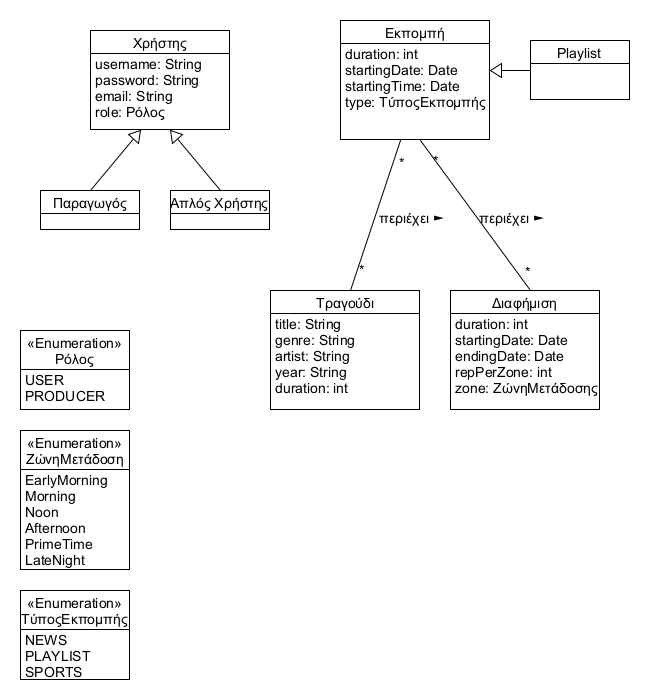
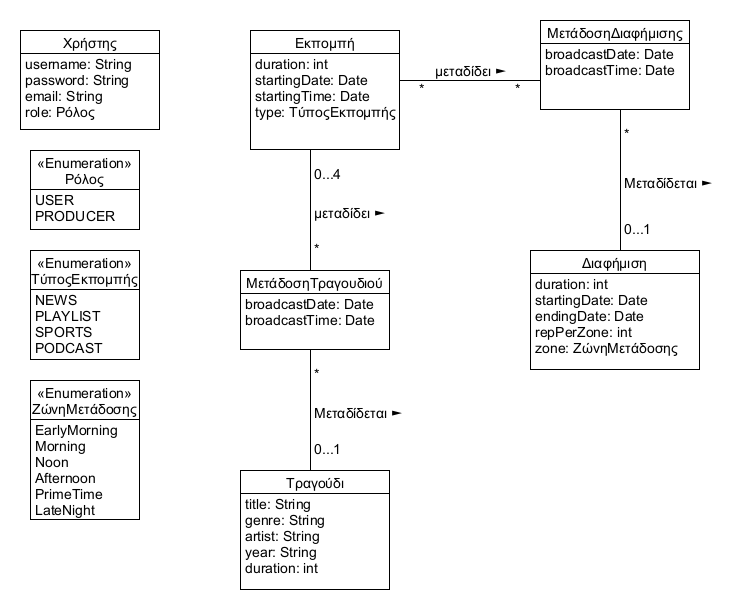
updates for domain model

diff --git a/docs/markdown/leitourgies.md b/docs/markdown/leitourgies.md
@@ -1,6 +1,7 @@
 # Λειτουργικότητα Λογισμικού
 
 ## Περιεχόμενα
+
 1. [Χρήστες Συστήματος](#χρήστες-συστήματος)
 2. [Βιβλιοθήκη Τραγουδιών](#βιβλιοθήκη-τραγουδιών)
 3. [Αρχείο Διαφημίσεων](#αρχείο-διαφημίσεων)
@@ -28,7 +29,7 @@
 
 * Το σύστημα αποτελείται από ένα αρχείο διαφημίσεων
 
-* Η κάθε διαφήμιση αποτελείται από τα εξής μεταδεδομένα: διάρκεια, ημερομηνία έναρξης της μετάδοσής της, ημερομηνία λήξης της μετάδοσής της, χρονική ζώνη μετάδοσης ( EarlyMorning, Morning, Noon, Afternoon, PrimeTime,LateNight), αριθμός επαναλήψεων ανά ζώνη.
+* Η κάθε διαφήμιση αποτελείται από τα εξής μεταδεδομένα: διάρκεια, ημερομηνία έναρξης της μετάδοσής της, ημερομηνία λήξης της μετάδοσής της, χρονική ζώνη μετάδοσης ( EarlyMorning, Morning, Noon, Afternoon, PrimeTime, LateNight), αριθμός επαναλήψεων ανά ζώνη.
 
 * Οι χρήστες μπορούν να εισάγουν νέες διαφημίσεις στο αρχείο, να επεξεργάζονται τα μεταδεδομένα μιας διαφήμισης και να βλέπουν τις διαφημίσεις που περιέχει το αρχείο
 
@@ -39,6 +40,8 @@
 * Η κάθε εκπομπή αποτελείται από τα εξής μεταδεδομένα: διάρκεια, ημέρα έναρξης, ώρα έναρξης, λίστα από μουσικά κομμάτια, λίστα από διαφημίσεις, τύπος εκπομπής (μουσικές, ειδησεογραφικές, αθλητικές, podcast).
 
 * Ο ραδιοφωνικός παραγωγός επιλέγει τα κομμάτια που θα αναπαραχθούν σε καθε εκπομπή.
+
+* Η λίστα θα πρέπει να περιέχε κομμάτια απο το ίδιο είδος μουσικής.
 
 * Το σύστημα προτείνει διαφημίσεις που πρέπει να αναπαραχθούν σε μια εκπομπή ανάλογα με την ώρα μετάδοσης και τη διάρκεια της εκπομπής.
 
